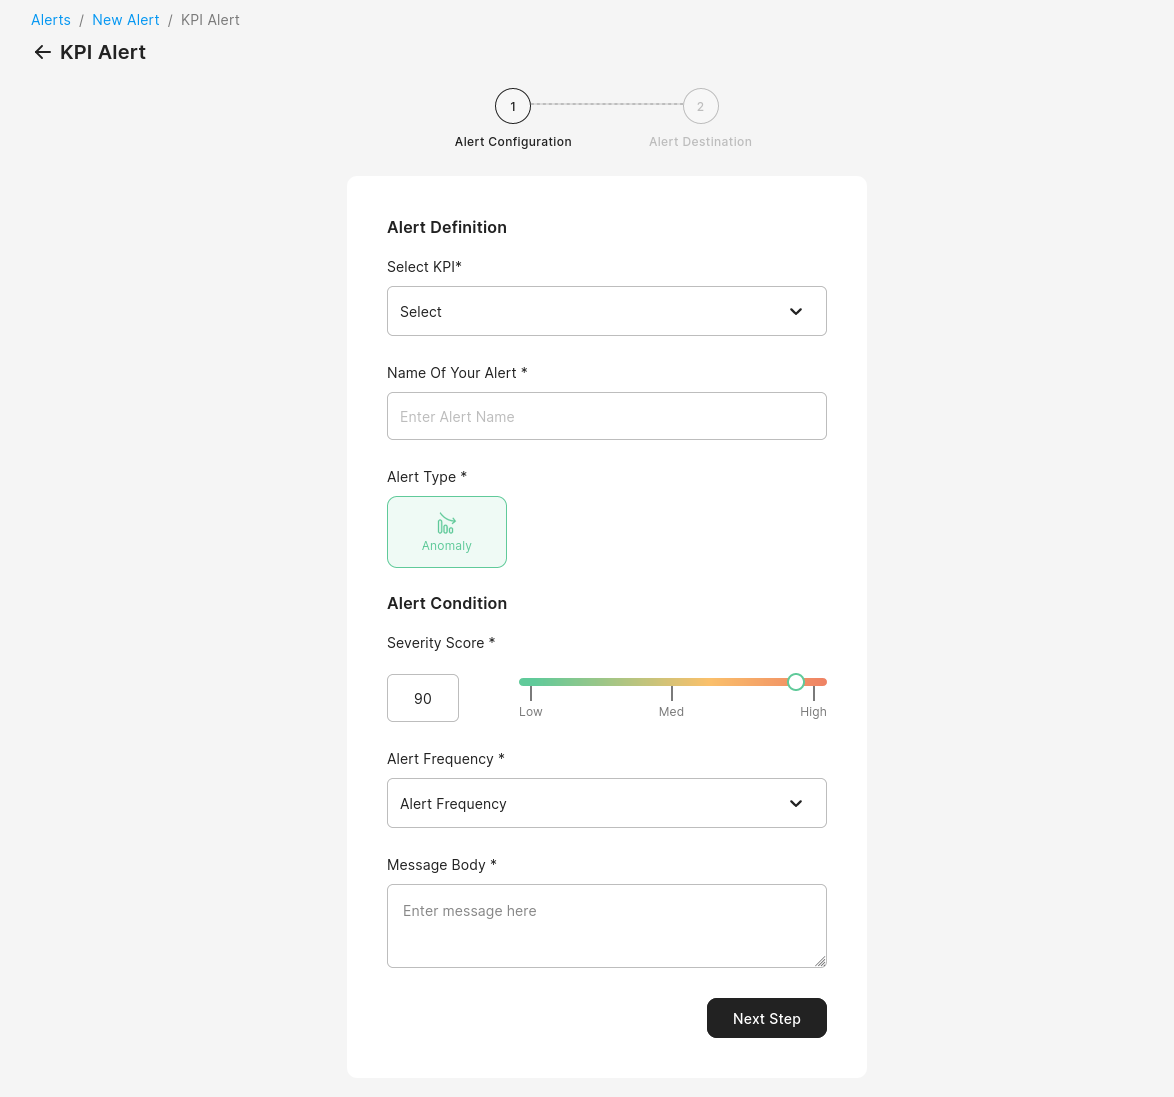
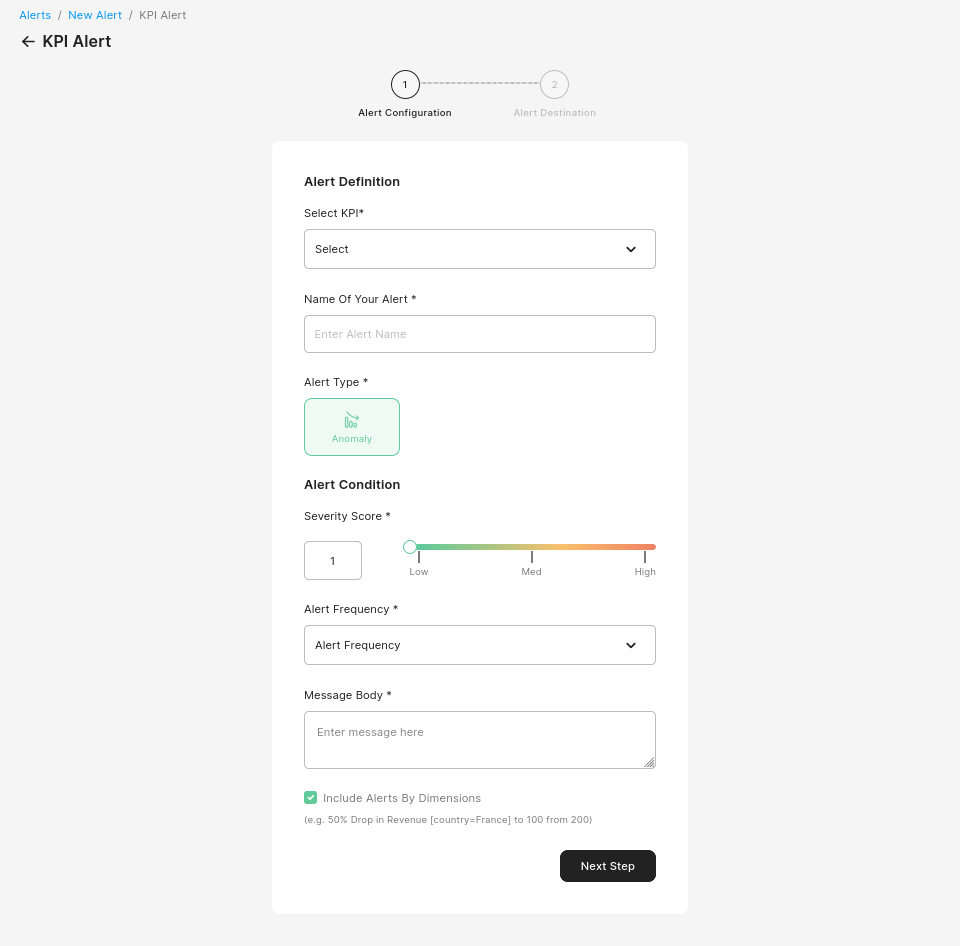
update alerts with 0.9.0 changes, add alert ss, add troubleshooting

diff --git a/docs/Alerts/Add_Alerts/add_KPI_alert.md b/docs/Alerts/Add_Alerts/add_KPI_alert.md
@@ -5,6 +5,8 @@ id: 'kpi-alert'
 
 # KPI Alerts
 
+## Adding a KPI alert
+
 ![Add KPI alert](/img/Alerts/add_alert_1.png)
 
 ![Add KPI alert - channel config](/img/Alerts/add_alert_2.png)
@@ -25,6 +27,8 @@ You need to fill in the following fields:
 
 -   **Message Body**: This is the message you want accompanied when the alert is sent to you.
 
+-   **Include Alerts By Dimensions**: If enabled, alerts will be sent for sub-dimensional anomalies too. This setting does *not* affect "reasons for change" for overall anomalies.
+
 -   **Select Channel**: Channel on which you want to receive the alert at. Currently you can choose between either :
 
     -   Email: You can add recipient emails. Press enter after typing an email to add it to the list.
@@ -36,4 +40,16 @@ You need to fill in the following fields:
 :::note
 Consolidated [Reports need to be configured](/Alerts/Alert_Report_Settings.md) to receive them.
 :::
+
+## Examples of KPI alerts
+
+Example of email KPI alerts:
+
+![KPI alert sent via email](/img/Alerts/alert_example_kpi_email.png)
+
+![KPI alert sent via email](/img/Alerts/alert_example_kpi_email_2.png)
+
+Example of a slack alert:
+
+![KPI alert sent via slack](/img/Alerts/alert_example_kpi_slack_1.png)
 

diff --git a/docs/Alerts/Alert_Report_Settings.md b/docs/Alerts/Alert_Report_Settings.md
@@ -12,7 +12,7 @@ To configure consolidated alert reports, go to Admin (on the top right corner) &
 Set the time at which you want to receive alert reports. 
 
 :::note
-- Users are recommended to set a time such that all their KPI's have completed their analysis for the day. Selecting an earlier time will results in some alerts getting skipped from the Consolidated Report.
+- Users are recommended to set a time such that all their KPIs have completed their analysis for the day. Selecting an earlier time will results in some alerts getting skipped from the Consolidated Report.
 - The time set is in your server timezone. Your server timezone is displayed below the input.
 - Each email address will receive different alerts in their report, based on the alerts to which they are added.
 :::

diff --git a/docs/Quick_Start/step4_add_alert.md b/docs/Quick_Start/step4_add_alert.md
@@ -29,6 +29,8 @@ To setup an Alert, you first have to click the `New Alert` button, select `KPI A
 
 -   **Message Body**: This is the message you want accompanied when the alert is sent to you.
 
+-   **Include Alerts By Dimensions**: If enabled, alerts will be sent for sub-dimensional anomalies too. This setting does *not* affect "reasons for change" for overall anomalies.
+
 -   **Select Channel**: Channel on which you want to receive the alert at. Currently you can choose between either :
 
     -   Email: You can add recipient emails. Press enter after typing an email to add it to the list.

diff --git a/docs/Troubleshooting/setting_alerts.md b/docs/Troubleshooting/setting_alerts.md
@@ -3,3 +3,9 @@ sidebar_position: 5
 id: 'setting_alerts'
 ---
 # Alerts
+
+## Links in alerts go to localhost
+
+**Problem**: the KPI, sub-dimension or dashboard links go to `localhost:8080` instead of your installation.
+
+**Solution**: set the [webapp URL in the `.env` file](/Operator_Guides/Configuration/config-params.md#required-parameters).
